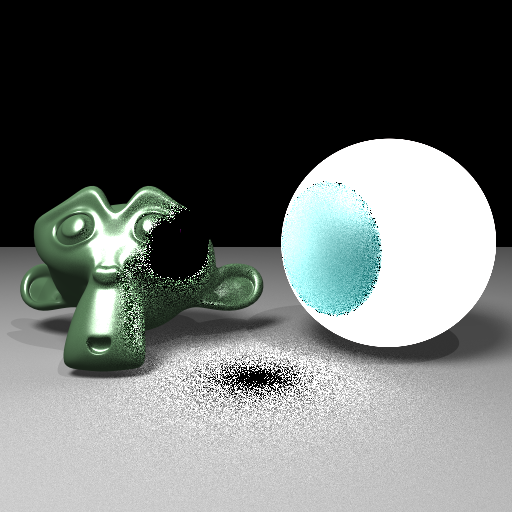
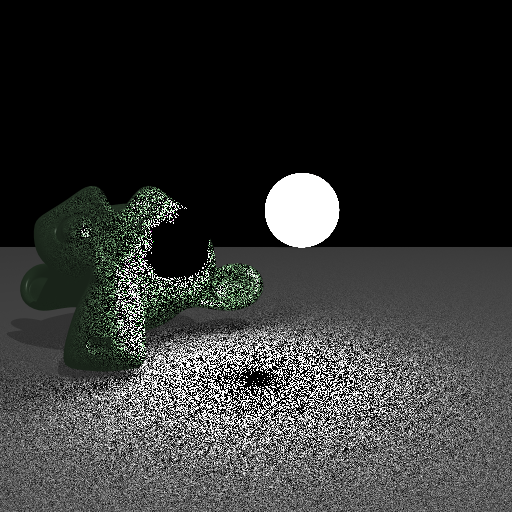
tiling closes #1

diff --git a/src/apps/04_pathtrace.cpp b/src/apps/04_pathtrace.cpp
@@ -19,24 +19,42 @@ void pathtrace(Scene* scene, image3f* image, RngImage* rngs, int offset_row, int
 vec3f lookup_scaled_texture(vec3f value, image3f* texture, vec2f uv, bool tile = false) {
     if(not texture) return value;
     
+    // texture tiling
+    if(tile){
+        auto i = (int)(uv.x*(texture->width()-1));
+        auto j = (int)(uv.y*(texture->height()-1));
+        
+        i = i % texture->width();
+        if (i < 0){
+            i = i + texture->width();
+        }
+        
+        j = j % texture->width();
+        if (j < 0){
+            j = j + texture->width();
+        }
+        return value * texture->at(i,j);
+    }
+    else{
     // for now, simply clamp texture coords
     auto u = clamp(uv.x, 0.0f, 1.0f);
     auto v = clamp(uv.y, 0.0f, 1.0f);
     return value * texture->at(u*(texture->width()-1), v*(texture->height()-1));
+    }
 }
 
 // compute the brdf
 vec3f eval_brdf(vec3f kd, vec3f ks, float n, vec3f v, vec3f l, vec3f norm, bool microfacet) {
     if (not microfacet) {
-        auto h = normalize(v+l);
+            auto h = normalize(v+l);
         return kd/pif + ks*(n+8)/(8*pif) * pow(max(0.0f,dot(norm,h)),n);
     } else {
         // help from this: http://simonstechblog.blogspot.com/2011/12/microfacet-brdf.html
-        auto h = normalize( v + l);
-        auto dist = (n + 2.0f) / (2.0f*pif) * pow(max(0.0f, dot(norm,h)),n);
-        auto fresnel = ks + (one3f - ks)*pow(1.0f - dot(h,l), 5.0f);
-        float geo = min(1.0f,2.0f * dot(h,norm) * dot(v,norm) / dot(v,h));
-        geo = min(geo,(2.0f * dot(h,norm)*dot(l,norm) / dot(l,h)));
+            auto h = normalize( v + l);
+            auto dist = (n + 2.0f) / (2.0f*pif) * pow(max(0.0f, dot(norm,h)),n);
+            auto fresnel = ks + (one3f - ks)*pow(1.0f - dot(h,l), 5.0f);
+            float geo = min(1.0f,2.0f * dot(h,norm) * dot(v,norm) / dot(v,h));
+            geo = min(geo,(2.0f * dot(h,norm)*dot(l,norm) / dot(l,h)));
         return (dist * geo * fresnel)/(4.0f * dot(l,norm) * dot(v,norm));
     }
 }
@@ -45,7 +63,7 @@ vec3f eval_brdf(vec3f kd, vec3f ks, float n, vec3f v, vec3f l, vec3f norm, bool 
 vec3f eval_env(vec3f ke, image3f* ke_txt, vec3f dir) {
     vec2f uv;
     uv.x = atan2f(dir.x,dir.z)/(2.0f*pif);
-    uv.y = 1.0f-acos(dir.y)/pif;
+    uv.y = 1.0f-acosf(dir.y)/pif;
     auto vector = lookup_scaled_texture(ke, ke_txt, uv);
     return vector;
 }
@@ -67,9 +85,9 @@ vec3f pathtrace_ray(Scene* scene, ray3f ray, Rng* rng, int depth) {
     auto v = -ray.d;
     
     // compute material values by looking up textures
-    auto ke = lookup_scaled_texture(intersection.mat->ke, intersection.mat->ke_txt, intersection.texcoord);
-    auto kd = lookup_scaled_texture(intersection.mat->kd, intersection.mat->kd_txt, intersection.texcoord);
-    auto ks = lookup_scaled_texture(intersection.mat->ks, intersection.mat->ks_txt, intersection.texcoord);
+    auto ke = lookup_scaled_texture(intersection.mat->ke, intersection.mat->ke_txt, intersection.texcoord, true);
+    auto kd = lookup_scaled_texture(intersection.mat->kd, intersection.mat->kd_txt, intersection.texcoord, true);
+    auto ks = lookup_scaled_texture(intersection.mat->ks, intersection.mat->ks_txt, intersection.texcoord, true);
     auto n = intersection.mat->n;
     auto mf = intersection.mat->microfacet;
     
@@ -199,7 +217,6 @@ vec3f pathtrace_ray(Scene* scene, ray3f ray, Rng* rng, int depth) {
                 
                 c += shade;
             }
-            
         }
     }
 
